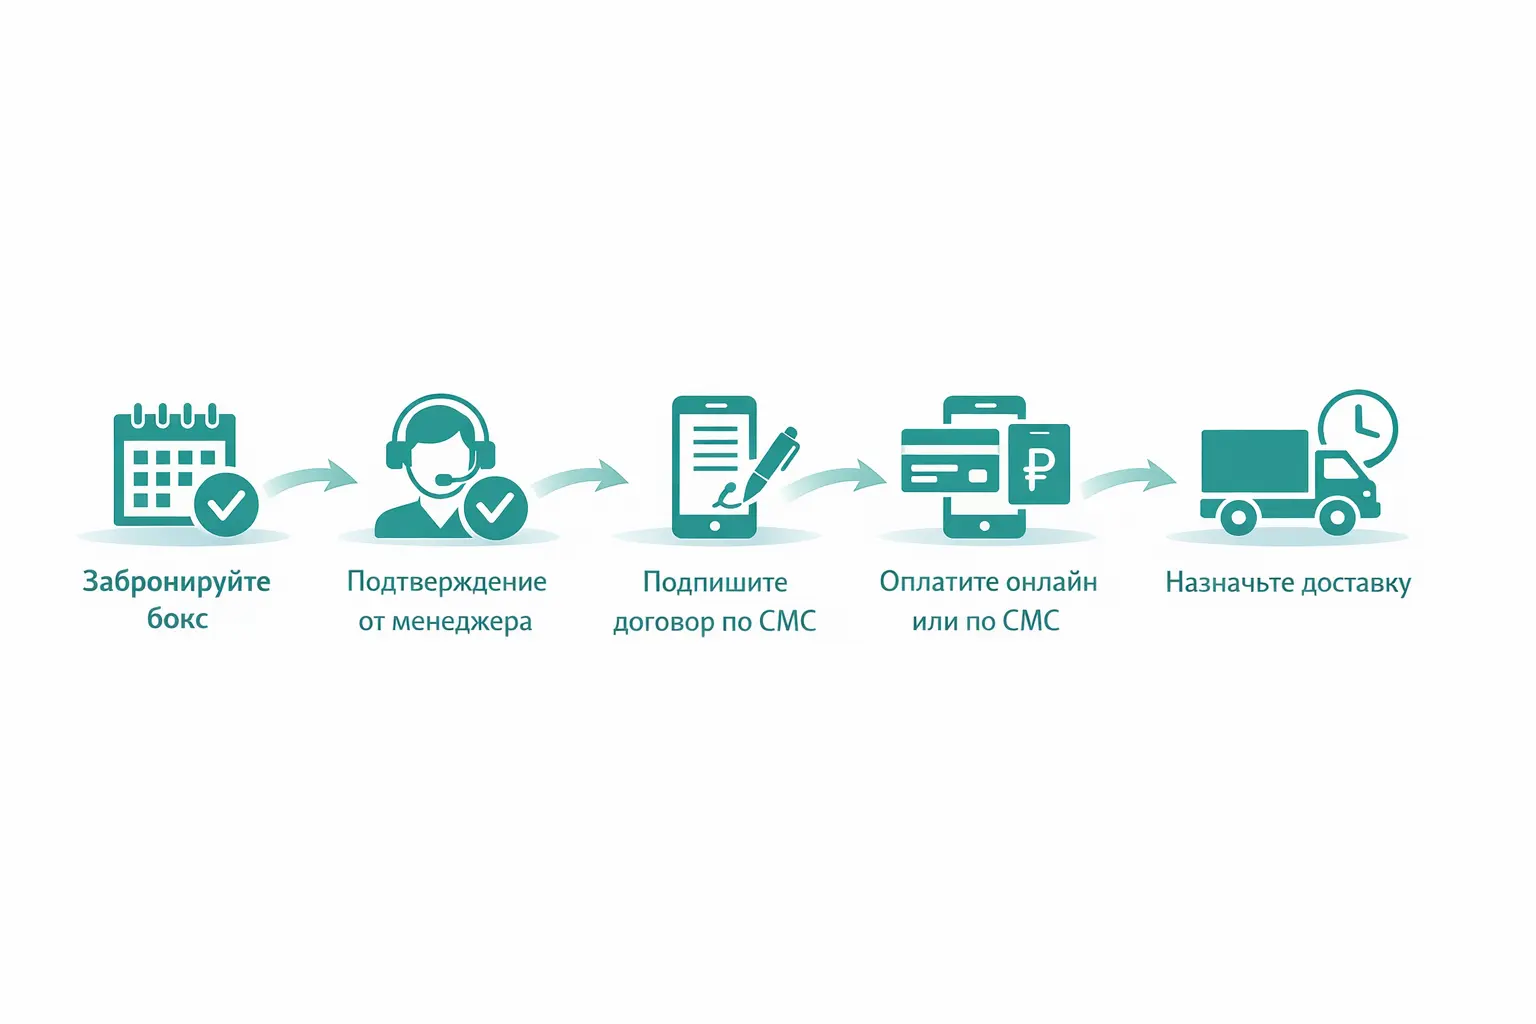
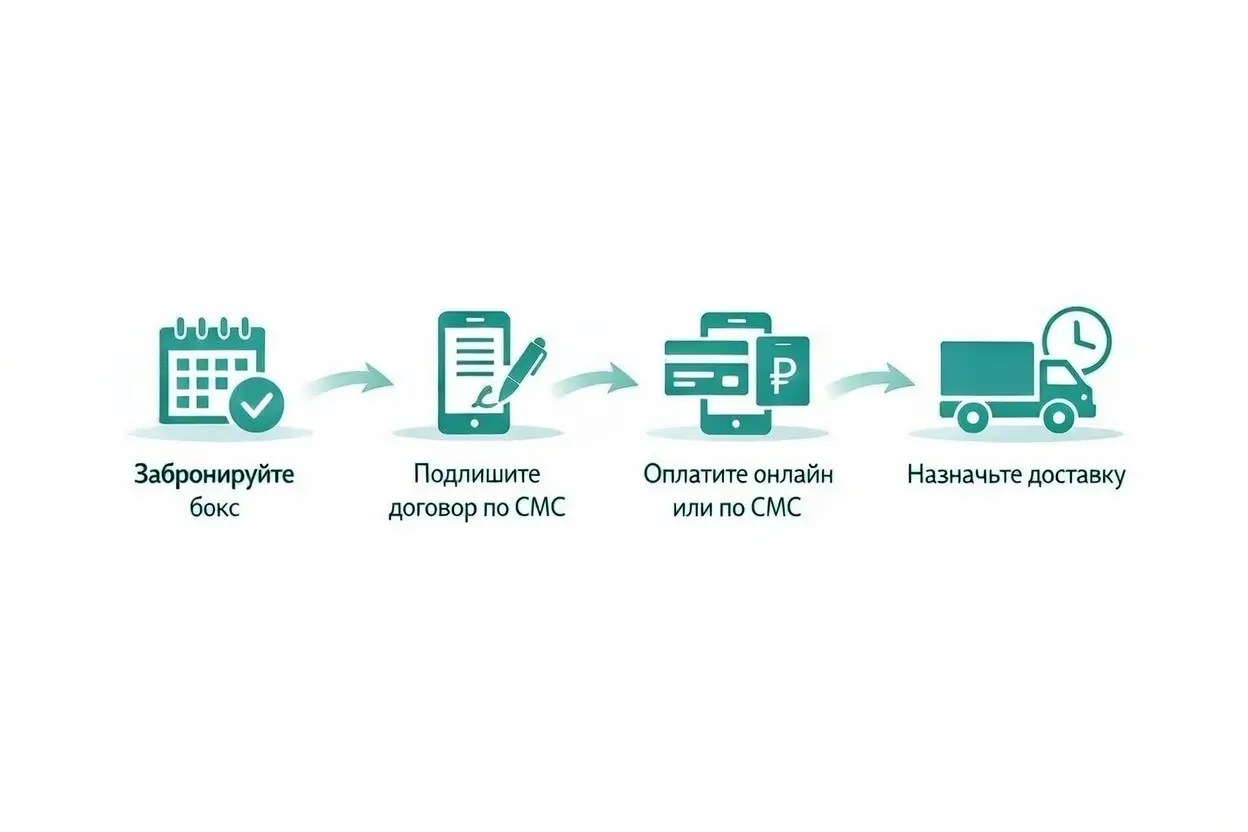
fix: instructions with 4 steps(without approving manager)

Changed region(s): [[0.0625, 0.3438, 0.9375, 0.625]]

diff --git a/src/pages/personal-account/ui/UserOrdersPage.jsx b/src/pages/personal-account/ui/UserOrdersPage.jsx
@@ -7,7 +7,7 @@ import UserOrderCard from './UserOrderCard';
 import { Tabs, TabsList, TabsTrigger } from '../../../components/ui/tabs';
 import { Select, SelectContent, SelectItem, SelectTrigger, SelectValue } from '../../../components/ui/select';
 import { useNavigate } from 'react-router-dom';
-import { List, Zap, CheckCircle, Star, FileText, HelpCircle } from 'lucide-react';
+import { List, Zap, CreditCard, FileText, HelpCircle, Archive } from 'lucide-react';
 import { Dialog, DialogContent, DialogHeader, DialogTitle } from '../../../components/ui/dialog';
 import instImage from '../../../assets/inst.webp';
 import { ordersApi } from '../../../shared/api/ordersApi';
@@ -15,8 +15,8 @@ import { toastNeedDeliveryTime } from '../../../shared/lib/toast';
 
 const ORDER_FILTER_OPTIONS = [
   { value: 'all', label: 'Все' },
-  { value: 'in_active', label: 'В обработке у менеджера' },
-  { value: 'approved', label: 'Подтверждено' },
+  { value: 'contract', label: 'Договор' },
+  { value: 'payment', label: 'Оплата' },
   { value: 'active', label: 'Активные' },
   { value: 'archive', label: 'В архиве' },
 ];
@@ -81,10 +81,12 @@ const UserOrdersPage = ({ embeddedMobile = false, onPayOrder }) => {
     if (!orders) return [];
     
     switch (activeFilter) {
-      case 'in_active':
-        return orders.filter(order => order.status === 'INACTIVE');
-      case 'approved':
-        return orders.filter(order => order.status === 'APPROVED' || order.status === 'PROCESSING');
+      case 'contract':
+        // Ожидают подписания договора
+        return orders.filter(order => order.status === 'APPROVED' && order.contract_status !== 'SIGNED');
+      case 'payment':
+        // Ожидают оплаты (договор подписан, но не оплачено)
+        return orders.filter(order => order.status === 'PROCESSING' && order.contract_status === 'SIGNED' && order.payment_status === 'UNPAID');
       case 'active':
         return orders.filter(order => order.status === 'ACTIVE');
       case 'archive':
@@ -97,11 +99,11 @@ const UserOrdersPage = ({ embeddedMobile = false, onPayOrder }) => {
   // Статистика заказов
   const stats = useMemo(() => {
     const total = orders.length;
-    const approved = orders.filter(o => o.status === 'APPROVED').length;
-    const unpaid = orders.filter(o => o.payment_status === 'UNPAID').length;
-    const paid = orders.filter(o => o.payment_status === 'PAID').length;
+    const awaitingContract = orders.filter(o => o.status === 'APPROVED' && o.contract_status !== 'SIGNED').length;
+    const awaitingPayment = orders.filter(o => o.status === 'PROCESSING' && o.contract_status === 'SIGNED' && o.payment_status === 'UNPAID').length;
+    const active = orders.filter(o => o.status === 'ACTIVE').length;
     
-    return { total, approved, unpaid, paid };
+    return { total, awaitingContract, awaitingPayment, active };
   }, [orders]);
 
   const handlePayOrder = (order) => {
@@ -162,18 +164,18 @@ const UserOrdersPage = ({ embeddedMobile = false, onPayOrder }) => {
                 <span>Все</span>
               </TabsTrigger>
               <TabsTrigger
-                value="in_active"
+                value="contract"
                 className="flex items-center gap-2 px-4 py-2 rounded-full data-[state=active]:bg-[#00A991]/20 data-[state=active]:text-[#00A991] data-[state=inactive]:text-gray-600 data-[state=inactive]:bg-transparent hover:bg-gray-50 transition-colors"
               >
-                <Star className="w-4 h-4" />
-                <span>В обработке у менеджера</span>
+                <FileText className="w-4 h-4" />
+                <span>Договор</span>
               </TabsTrigger>
               <TabsTrigger
-                value="approved"
+                value="payment"
                 className="flex items-center gap-2 px-4 py-2 rounded-full data-[state=active]:bg-[#00A991]/20 data-[state=active]:text-[#00A991] data-[state=inactive]:text-gray-600 data-[state=inactive]:bg-transparent hover:bg-gray-50 transition-colors"
               >
-                <CheckCircle className="w-4 h-4" />
-                <span>Подтверждено</span>
+                <CreditCard className="w-4 h-4" />
+                <span>Оплата</span>
               </TabsTrigger>
               <TabsTrigger
                 value="active"
@@ -186,7 +188,7 @@ const UserOrdersPage = ({ embeddedMobile = false, onPayOrder }) => {
                 value="archive"
                 className="flex items-center gap-2 px-4 py-2 rounded-full data-[state=active]:bg-[#00A991]/20 data-[state=active]:text-[#00A991] data-[state=inactive]:text-gray-600 data-[state=inactive]:bg-transparent hover:bg-gray-50 transition-colors"
               >
-                <FileText className="w-4 h-4" />
+                <Archive className="w-4 h-4" />
                 <span>В архиве</span>
               </TabsTrigger>
             </TabsList>
@@ -266,16 +268,16 @@ const UserOrdersPage = ({ embeddedMobile = false, onPayOrder }) => {
                 <div className="text-4xl font-bold text-[#004743]">{stats.total}</div>
               </div>
               <div className="text-center">
-                <div className="text-sm text-gray-600 mb-1">Подтверждено:</div>
-                <div className="text-4xl font-bold text-[#004743]">{stats.approved}</div>
+                <div className="text-sm text-gray-600 mb-1">Ожидают договор:</div>
+                <div className="text-4xl font-bold text-[#004743]">{stats.awaitingContract}</div>
               </div>
               <div className="text-center">
-                <div className="text-sm text-gray-600 mb-1">Неоплачено:</div>
-                <div className="text-4xl font-bold text-[#004743]">{stats.unpaid}</div>
+                <div className="text-sm text-gray-600 mb-1">Ожидают оплату:</div>
+                <div className="text-4xl font-bold text-[#004743]">{stats.awaitingPayment}</div>
               </div>
               <div className="text-center">
-                <div className="text-sm text-gray-600 mb-1">Оплачено:</div>
-                <div className="text-4xl font-bold text-[#004743]">{stats.paid}</div>
+                <div className="text-sm text-gray-600 mb-1">Активные:</div>
+                <div className="text-4xl font-bold text-[#004743]">{stats.active}</div>
               </div>
             </div>
           </div>

diff --git a/src/pages/personal-account/ui/UserOrderCard.jsx b/src/pages/personal-account/ui/UserOrderCard.jsx
@@ -23,7 +23,7 @@ import { Button } from '../../../components/ui/button';
 import { useExtendOrder, useDownloadContract, useCancelContract, useContractDetails } from '../../../shared/lib/hooks/use-orders';
 import { useCreateMoving, useCreateAdditionalServicePayment } from '../../../shared/lib/hooks/use-payments';
 import { EditOrderModal } from '@/pages/personal-account/ui/EditOrderModal.jsx';
-import { Zap, CheckCircle, Star, Download, Plus, Truck, Package, ChevronDown, ChevronUp, FileText, AlertTriangle, MapPin, Eye, Tag } from 'lucide-react';
+import { Zap, CheckCircle, Download, Plus, Truck, Package, ChevronDown, ChevronUp, FileText, AlertTriangle, MapPin, Eye, Tag, CreditCard } from 'lucide-react';
 import { showExtendOrderSuccess, showCancelExtensionSuccess, showExtendOrderError } from '../../../shared/lib/utils/notifications';
 import OrderDeleteModal from './OrderDeleteModal';
 import {useNavigate} from "react-router-dom";
@@ -385,10 +385,16 @@ const UserOrderCard = ({ order, onPayOrder, embeddedMobile = false }) => {
             Активный
           </span>
         )}
-        {['APPROVED', 'PROCESSING'].includes(order.status) && (
+        {order.status === 'APPROVED' && order.contract_status !== 'SIGNED' && (
           <span className="inline-flex items-center gap-1.5 px-4 py-2 bg-white rounded-full text-sm font-medium text-gray-700">
-            <CheckCircle className="w-4 h-4 text-gray-500" />
-            Подтверждено
+            <FileText className="w-4 h-4 text-gray-500" />
+            Ожидает договор
+          </span>
+        )}
+        {order.status === 'PROCESSING' && order.contract_status === 'SIGNED' && order.payment_status === 'UNPAID' && (
+          <span className="inline-flex items-center gap-1.5 px-4 py-2 bg-white rounded-full text-sm font-medium text-gray-700">
+            <CreditCard className="w-4 h-4 text-gray-500" />
+            Ожидает оплату
           </span>
         )}
         {['CANCELED', 'FINISHED'].includes(order.status) && (
@@ -397,21 +403,10 @@ const UserOrderCard = ({ order, onPayOrder, embeddedMobile = false }) => {
             В архиве
           </span>
         )}
-        {order.status === 'INACTIVE' && (
-          <span className="inline-flex items-center gap-1.5 px-4 py-2 bg-white rounded-full text-sm font-medium text-gray-700">
-            <Star className="w-4 h-4 text-gray-500" />
-            В обработке у менеджера
-          </span>
-        )}
-        {order.payment_status === 'PAID' && (
+        {order.status === 'ACTIVE' && order.payment_status === 'PAID' && (
           <span className="inline-flex items-center gap-1.5 px-3 py-1.5 bg-white rounded-full text-xs font-medium text-gray-700">
             <CheckCircle className="w-3.5 h-3.5 text-gray-500" />
             Оплачен
-          </span>
-        )}
-        {order.payment_status === 'UNPAID' && (
-          <span className="inline-flex items-center px-3 py-1.5 bg-white rounded-full text-xs font-medium text-gray-700">
-            Не оплачено
           </span>
         )}
       </div>
@@ -655,16 +650,6 @@ const UserOrderCard = ({ order, onPayOrder, embeddedMobile = false }) => {
         </>
       )}
 
-      {order.status === 'INACTIVE' && (
-        <div className="mb-8 flex justify-end">
-          <button
-              onClick={() => setIsEditModalOpen(true)}
-              className="text-white text-sm font-medium hover:text-white/80 transition-colors underline"
-          >
-            Редактировать
-          </button>
-        </div>
-      )}
 
       {/* Итого и кнопки действий */}
       <div className={embeddedMobile ? 'mt-3 min-[360px]:mt-4' : 'mt-6'}>
@@ -688,8 +673,8 @@ const UserOrderCard = ({ order, onPayOrder, embeddedMobile = false }) => {
           </div>
           
           <div className="flex flex-col items-end gap-2">
-            {/* Кнопка Оплатить - показывается после подтверждения менеджером (APPROVED или PROCESSING) и если не оплачено */}
-            {((order.status === 'PROCESSING' || order.status === 'ACTIVE') && order.payment_status === 'UNPAID' && order.contract_status === 'SIGNED') ? (
+            {/* Кнопка Оплатить - показывается когда договор подписан и не оплачено */}
+            {(['APPROVED', 'PROCESSING', 'ACTIVE'].includes(order.status) && order.payment_status === 'UNPAID' && order.contract_status === 'SIGNED') ? (
               <button
                 onClick={() => onPayOrder(order)}
                 className="px-6 py-2.5 bg-white text-gray-700 text-sm font-bold rounded-3xl hover:bg-white/90 transition-colors"
